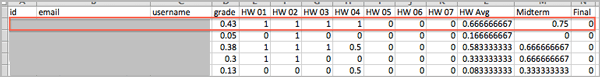
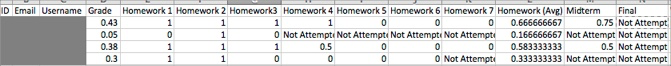
DOC-3507, DOC-2202 Grade report docs updated for Not Attempted, Not Accessible, description of "Verified" column

diff --git a/en_us/shared/student_progress/course_grades.rst b/en_us/shared/student_progress/course_grades.rst
@@ -166,20 +166,24 @@ belongs to.
 The grade report .csv file contains one row of data for each learner, and
 columns that provide the following information.
 
-* Learner identifiers, including an internal **id**, **email** address, and
-  **username**.
+* Learner identifiers, including an internal **Student ID**, **Email** address, and
+  **Username**.
 
-* The overall **grade**, with the total score a learner has currently attained
+* The overall **Grade**, with the total score a learner has currently attained
   in the course. This value is expressed as a decimal: a learner with a grade
   of 0.65 has earned 65% of the credit in the course, and a learner with a
   grade of 1 has earned 100%.
 
 * Each **{assignment type} {number}** defined in your grading configuration,
   with the score that the learner attained for that specific assignment. For
-  example, column HW 03 shows the scores for the third homework assignment.
+  example, column Homework 3 shows the scores for the third homework
+  assignment. If the learner did not attempt the assignment, the value is "Not
+  Attempted". If the assignment was not available for the learner, the value
+  is "Not Accessible".
 
-* An **{assignment type} Avg** with each learner's current average score for
-  that assignment type: for example, HW Avg.
+* An **{assignment type} (Avg)** with each learner's current average score for
+  that assignment type: for example, "Homework (Avg)". This column is not
+  included if a particular assignment type has only one assignment.
 
 * If :ref:`cohorts<Cohorts Overview>` are used in the course, a **Cohort Name**
   column indicates the name of the cohort that each learner belongs to,
@@ -201,12 +205,18 @@ columns that provide the following information.
 * The **Enrollment Track** column indicates whether each learner is enrolled in
   the course in the honor code, verified, or professional education track.
 
-* The **Verification Status** column applies only to learners who are enrolled
-  in the verified or professional tracks. The value in this column indicates
-  whether the verified or professional education learner has verified her
-  identity to edX by using a webcam to submit her photo and an official ID.
-  The value is "N/A" for learners who are not in the verified or professional
-  tracks.
+* The **Verification Status** column indicates whether learners who are enrolled
+  in course tracks that require ID verification have successfully verified
+  their identities to edX by submitting an official photo ID via webcam. The
+  value in this column is "N/A" for learners enrolled in course tracks that do
+  not require ID verification, such as "Audit".
+
+  A value of "Not ID Verified" in this column indicates that the learner is
+  enrolled in a course mode that requires ID verification, such as "Verified",
+  but she has not attempted ID verification, or her ID verification has failed
+  or expired. A value of "ID Verified" indicates that the learner is enrolled
+  in a course mode that requires ID verification, and her ID verification is
+  current and valid.
 
 * The **Certificate Eligible** column indicates whether a learner is eligible
   for a certificate for your course. The value in this column is "Y" for
@@ -306,20 +316,21 @@ provide the following information.
 * Learner identifiers, including an internal **Student ID**, **Email** address,
   and **Username**.
 
-* The **Final Grade**, with the total score that a learner has currently
+* The **Grade** column shows the total score that a learner has currently
   attained in the course. This value is expressed as a decimal: a learner with
   a grade of 0.65 has earned 65% of the credit in the course, and a learner
   with a grade of 1 has earned 100%.
 
 * For each problem (identified by assignment, subsection, and problem name), a
-  column showing the number of points actually earned by each learner. If a
-  learner has not viewed a problem, the value in this column is "N/A". If
-  a learner has not answered a problem, the value in this column is "0".
+  column showing the number of points actually earned by each learner. If the
+  learner did not attempt the assignment, the value is "Not Attempted". If the
+  assignment is not available to the learner, the value in this column is "Not
+  Accessible".
 
 * For each problem (identified by assignment, subsection, and problem name), a
   column showing the number of points that it is possible to earn for the
-  problem. If a learner has not viewed a problem, the value in this column
-  is "N/A".
+  problem. If the assignment is not available to the learner, the value in
+  this column is "Not Accessible".
 
 .. _gradebook:
 
